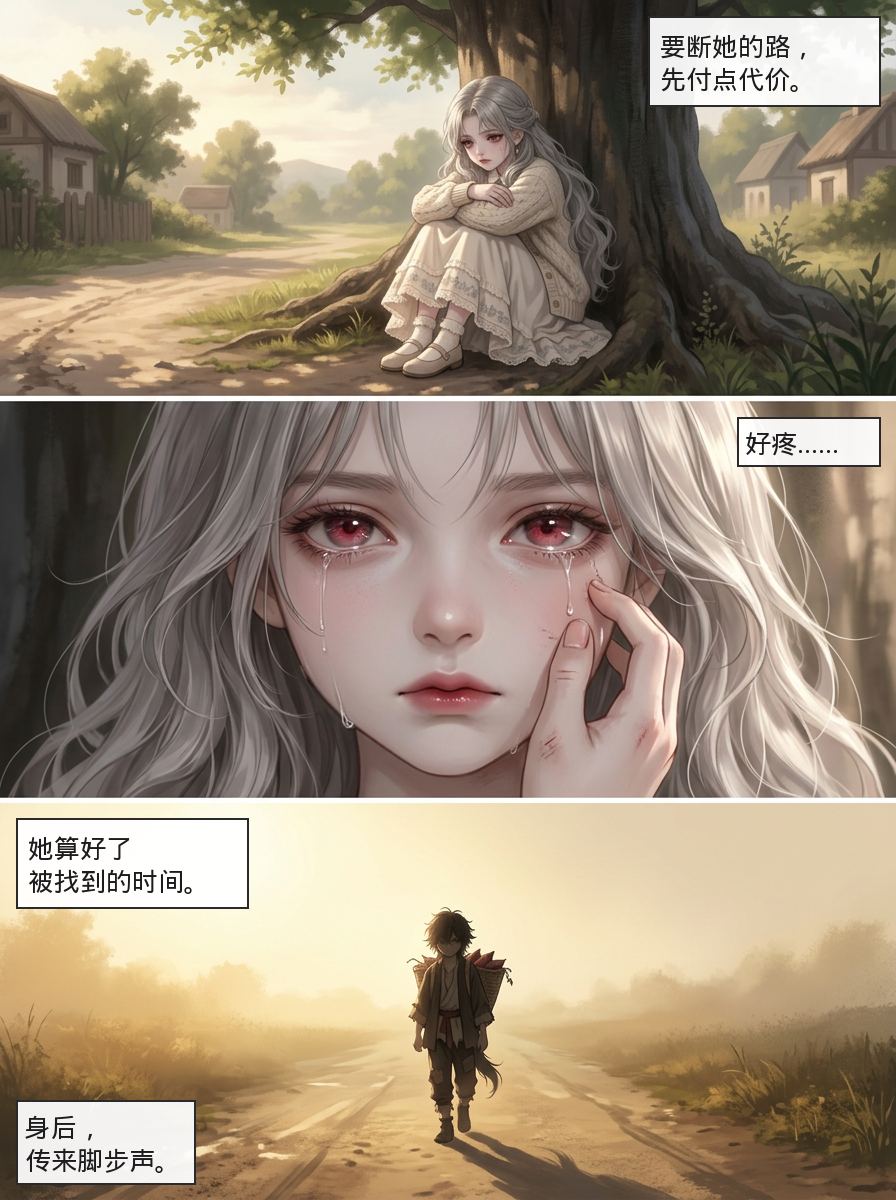
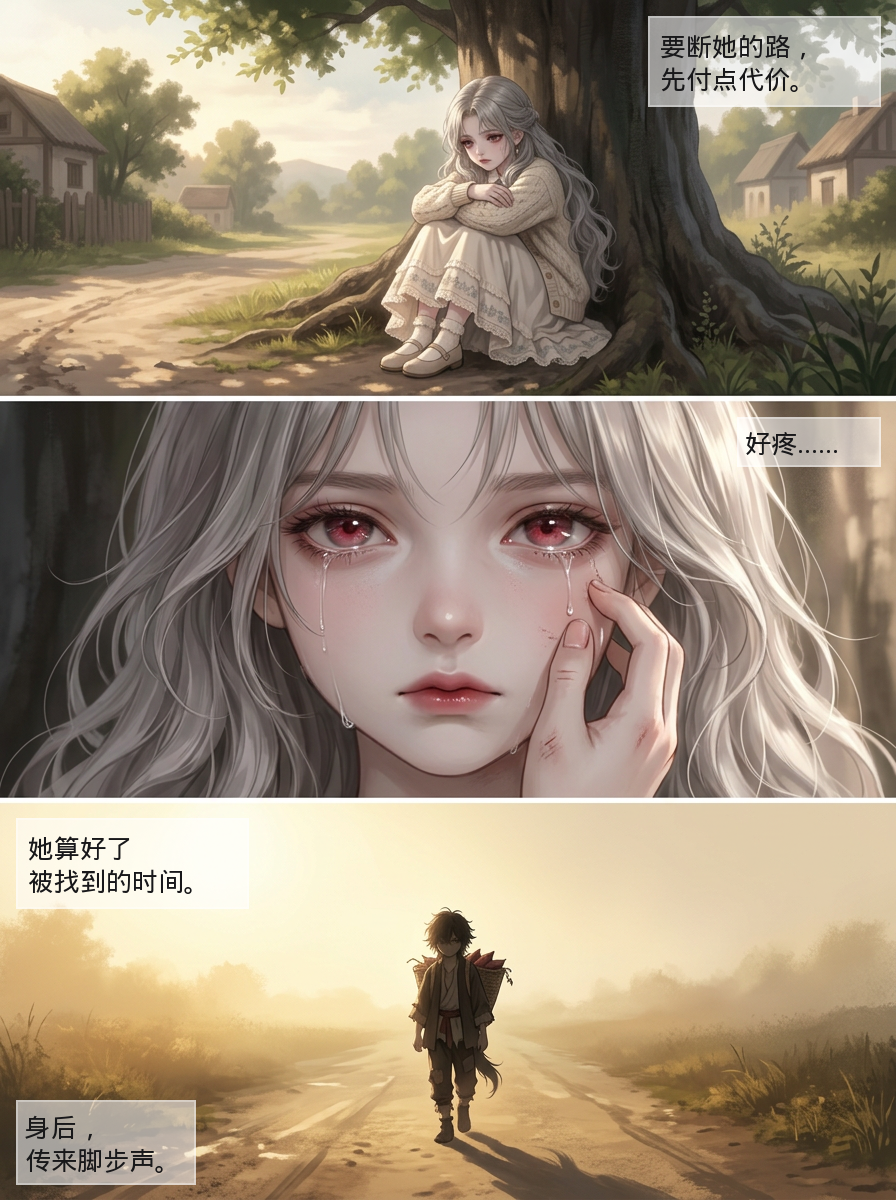
贴字改版：文字框/气泡默认半透明（DEFAULT_ALPHA 0.56，可逐页逐条覆盖），细边改跟白；全部已重贴（第02/03/04/08话共15页）；第03话P4分格坐标修正；画风档案记录透明度规则

diff --git a/漫画改编/工具/贴字.py b/漫画改编/工具/贴字.py
@@ -32,10 +32,14 @@ from pathlib import Path
 
 from PIL import Image, ImageDraw, ImageFont
 
+# 底色透明度：参照第 01 话 P3 的观感，约 6.5 成白，能透出画面纹理。
+# 每页可在 spec 里用 "alpha": 0.55~0.8 覆盖。
+DEFAULT_ALPHA = 0.56
+
 STYLES = {
     # 第 01 话版式：细边小方框（旁白/心声/画外音）与椭圆气泡（对白）
-    "box": {"fill": (255, 255, 255, 238), "ink": (28, 28, 30, 255), "edge": (42, 42, 44, 255), "width": 2},
-    "oval": {"fill": (255, 255, 255, 241), "ink": (26, 26, 28, 255), "edge": (50, 50, 52, 255), "width": 2},
+    "box": {"fill": (255, 255, 255, 168), "ink": (24, 24, 26, 255), "edge": (255, 255, 255, 205), "width": 2},
+    "oval": {"fill": (255, 255, 255, 172), "ink": (24, 24, 26, 255), "edge": (255, 255, 255, 205), "width": 2},
     "bubble": {"fill": (255, 255, 255, 244), "ink": (18, 18, 20, 255), "edge": (20, 20, 22, 255), "width": 3},
     "narr": {"fill": (252, 250, 244, 236), "ink": (24, 24, 26, 255), "edge": (24, 24, 26, 255), "width": 3},
     "sys": {"fill": (18, 48, 104, 232), "ink": (235, 246, 255, 255), "edge": (96, 186, 255, 255), "width": 3},
@@ -254,11 +258,21 @@ def _draw_tail(od, style, bx, by, box_w, box_h, tip, ph):
             fill=style["edge"], width=style["width"])
 
 
-def draw_box(canvas: Image.Image, rect, item, font_path, min_size):
-    """第 01 话的细边小方框：旁白 / 心声 / 画外音。"""
+def _style_with_alpha(name, item, alpha):
+    base = dict(STYLES[name])
+    a = item.get("alpha", alpha)
+    r, g, b, _ = base["fill"]
+    base["fill"] = (r, g, b, int(255 * max(0.35, min(0.95, a))))
+    er, eg, eb, _ = base["edge"]
+    base["edge"] = (er, eg, eb, int(255 * max(0.4, min(0.95, a + 0.15))))
+    return base
+
+
+def draw_box(canvas: Image.Image, rect, item, font_path, min_size, alpha=DEFAULT_ALPHA):
+    """第 01 话的细边小方框：旁白 / 心声 / 画外音（半透明，不糊画面）。"""
     x0, y0, x1, y1 = rect
     pw, ph = x1 - x0, y1 - y0
-    style = STYLES["box"]
+    style = _style_with_alpha("box", item, alpha)
     box_w = int(pw * item.get("width", 0.30))
     pad = max(8, int(box_w * 0.055))
     text = "\n".join(item["lines"])
@@ -281,11 +295,11 @@ def draw_box(canvas: Image.Image, rect, item, font_path, min_size):
         ty += line_h
 
 
-def draw_oval(canvas: Image.Image, rect, item, font_path, min_size):
-    """第 01 话的椭圆气泡：对白。"""
+def draw_oval(canvas: Image.Image, rect, item, font_path, min_size, alpha=DEFAULT_ALPHA):
+    """第 01 话的椭圆气泡：对白（半透明，不糊画面）。"""
     x0, y0, x1, y1 = rect
     pw, ph = x1 - x0, y1 - y0
-    style = STYLES["oval"]
+    style = _style_with_alpha("oval", item, alpha)
     box_w = int(pw * item.get("width", 0.34))
     pad = max(10, int(box_w * 0.10))
     text = "\n".join(item["lines"])
@@ -396,15 +410,16 @@ def main(argv):
 
     font_path = root / spec.get("font", "漫画改编/工具/CJK.ttf")
     min_size = spec.get("min_font", 20)
+    alpha = spec.get("alpha", DEFAULT_ALPHA)
     for item in spec["items"]:
         rect = (0, 0, *size) if item.get("panel") is None else panels[item["panel"] - 1]
         kind = item.get("type", "bubble")
         if kind == "bubble":
             draw_bubble(canvas, rect, item, font_path, min_size)
         elif kind == "box":
-            draw_box(canvas, rect, item, font_path, min_size)
+            draw_box(canvas, rect, item, font_path, min_size, alpha)
         elif kind == "oval":
-            draw_oval(canvas, rect, item, font_path, min_size)
+            draw_oval(canvas, rect, item, font_path, min_size, alpha)
         elif kind == "narr":
             draw_narr(canvas, rect, item, font_path, min_size)
         elif kind == "sys":

diff --git a/漫画改编/设定集/角色与画风档案.md b/漫画改编/设定集/角色与画风档案.md
@@ -109,6 +109,9 @@ harmonious color grading, highly polished illustration quality.
   每页 3 格，仅用**细白横向分格缝**分隔，格内满幅厚涂插画；**不要黑框、不要墨线勾勒、不要网点、不要拟声线**。
   文字后期压入，样式与 01 话同款：**细边小方框**（旁白/心声/画外音）+ **椭圆气泡**（对白），
   由 `工具/贴字.py` 的 `box` / `oval` 两种 item 生成，spec 存 `工具/贴字-spec/`。
+  **文字底色必须半透明**（2026-10-20 用户反馈「气泡太挡画面」）：默认 `DEFAULT_ALPHA = 0.56`，
+  即白底约 5.5 成，能透出画面纹理；细边也跟白、略高于底色（α+0.15）。单页可在 spec 里用
+  `"alpha": 0.5~0.75` 覆盖，单条可在 item 里覆盖。逻辑框/系统框另按 `sys` 样式处理。
   提示词须写明 **HUMAN ears，狼尾只是发型**、**child hands / small proportions**，防止兽耳与成年人的手。
 - **童年期画风统一（2026-10-20 用户指令）**：第 01 话的 gpt-image-2.5 成品页定为**唯一画风基准**；
   童年期各话（02–08）一律按该基准重出，不再保留 arena 双候选/其他模型的旧页。成年期（话 9 起）由用户自行出图，
